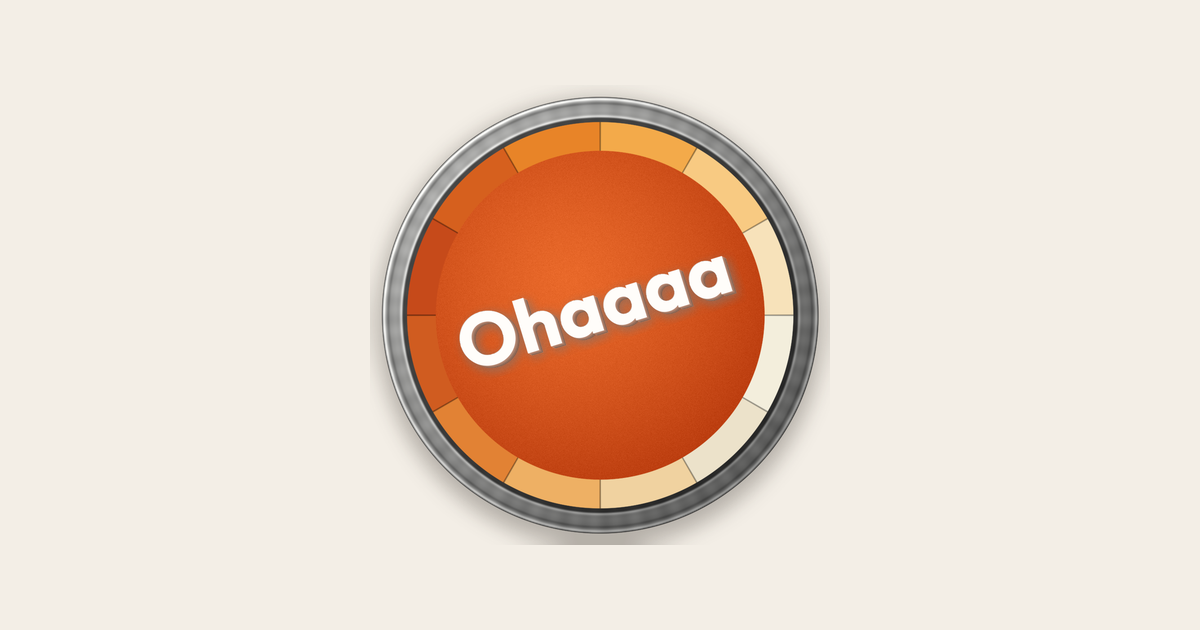
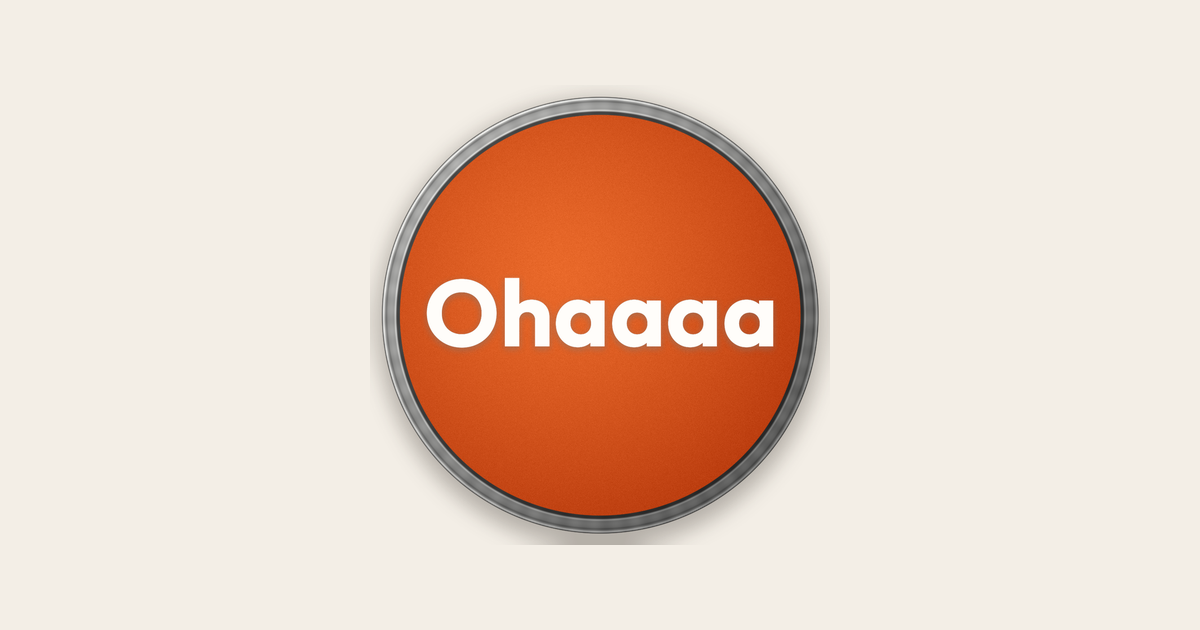
marka: armayı küçük boyutta okunacak şekilde yeniden çiz, levhaya vaadi al
"Oh!" çözümü yanlıştı ve geri alındı. Marka Ohaaaa; işaretin başka bir şey
söylemesi bir marka kararıdır ve sorulmadan verilmemeliydi. Asıl soru
doğru sorulunca cevap da değişti: ad neden küçük boyutta okunmuyor?

ÜÇ SEBEP, ÜÇ DÜZELTME
  1. Yazı 17 derece EĞİKTİ. Eğik küçük yazı piksel ızgarasına oturmadığı
     için kırılır. Yatay yapıldı.
  2. Kalın gümüş çember + renkli segment halkası, ikonun yarıçapının
     dörtte birini yiyordu. Segment halkası kaldırıldı, çember inceldi:
     disk 366'dan 446'ya çıktı, yazı aynı oranda büyüdü.
  3. Harflerde 3B pah ve yan yüz vardı. Bunlar 32 pikselde harfin
     kendisinden kalın kalıp konturu yiyordu. Düz beyaz + hafif gölge.

Sonuç: "Ohaaaa" artık 32 pikselde okunuyor (önce 64 pikselden önce
okunmuyordu). Ad kısaltılmadı, hiçbir yerde değişmedi.

LEVHA
Ad armada okunur hale geldiği için levhada tekrar etmesi gereksizleşti.
Levha artık müşteriye dönük olanı taşıyor: "kargo dahil fiyat" — siteyi
ayıran tek şey. Baştaki itiraz buydu ve artık sağlam bir zeminde
karşılanıyor.

YOL BOYUNCA BULUNAN HATA
Açı sabiti bağlanırken bir çağrı 17'de kalmıştı; yazı eğik çizilirken
doğrulama yatay sanıyordu. Harf sayacı bunu yakaladı (6 yerine 1 blok) —
kontrol kendi işini yaptı.

Doğrulama: harf blokları 6, dört 'a' eşit genişlikte (108 px). Siluet
en/boy 1.000. 16/32/36/48/72 pikselde ekran görüntüsüyle bakıldı.
320-390 piksel genişlikte yatay taşma yok. Dokunma alanı 166x52, logo
tıklaması ana sayfaya gidiyor. 116 birim testi geçiyor.
[…]

Changed region(s): [[0.3083, 0.1508, 0.6783, 0.8444]]

diff --git a/apps/web/src/components/Logo.tsx b/apps/web/src/components/Logo.tsx
@@ -3,16 +3,14 @@ import Link from 'next/link';
 /**
  * Başlık kilidi: arma + turuncu zemin üzerinde kelime işareti.
  *
- * ARMA BİR SİMGEDİR, OKUNACAK AD DEĞİL
- * Armanın İÇİNDEKİ "Ohaaaa" 36 pikselde okunmaz; o boyutta harfler birkaç
- * piksele düşer ve bulanık bir lekeye dönüşür. Bu yüzden arma tanınan bir
- * biçim ve renk olarak durur, adı yanındaki kelime işareti taşır.
+ * ADI ARMA TAŞIR, LEVHA VAADİ
+ * Arma yeniden çizildi: yazı yatay, çember inceldi, segment halkası kalktı,
+ * harflerdeki 3B pah gitti. Bu üç değişiklikle "Ohaaaa" 32 pikselde okunur
+ * hale geldi (önce 64 pikselden önce okunmuyordu).
  *
- * LEVHADA NE YAZAR
- * Marka adı + "kargo dahil fiyat". Arma 36 pikselde okunmadığı için (harfler
- * birkaç piksele düşer) adı yalnızca bu levha taşır; buradan da kaldırılırsa
- * marka adı başlıkta hiç görünmez. Alt satır ise siteyi ayıran tek şeyi
- * söyler: karşılaştırma kargo dahil toplam üzerinden yapılır.
+ * Ad artık armada okunduğu için levhada tekrar etmesi gereksiz. Levha
+ * müşteriye dönük olanı taşıyor: karşılaştırmanın kargo dahil toplam
+ * üzerinden yapılması — siteyi ayıran tek şey.
  *
  * "En ucuz" gibi bir üstünlük iddiası BİLEREK kullanılmadı. Ticari Reklam ve
  * Haksız Ticari Uygulamalar Yönetmeliği bu tür iddiaları ispat yükümlülüğüne
@@ -49,11 +47,8 @@ export function Logo({ className = '' }: { className?: string }) {
         className="relative z-10 h-9 w-9 shrink-0 transition-transform duration-200 group-hover:-rotate-6"
       />
 
-      <span className="-ml-4 flex flex-col justify-center rounded-r-full bg-gradient-to-r from-[#E9692A] via-[#D4501F] to-[#C13515] py-1 pl-5 pr-4 text-[#fffaf5] shadow-sm transition-transform duration-200 origin-left group-hover:scale-x-[1.02]">
-        <span className="text-xl font-extrabold leading-[1.05] tracking-tight">Ohaaaa</span>
-        <span className="text-[9.5px] font-semibold uppercase leading-[1.2] tracking-[0.04em] opacity-90">
-          kargo dahil fiyat
-        </span>
+      <span className="-ml-4 rounded-r-full bg-gradient-to-r from-[#E9692A] via-[#D4501F] to-[#C13515] py-[7px] pl-5 pr-4 text-[15px] font-extrabold leading-none tracking-tight text-[#fffaf5] shadow-sm transition-transform duration-200 origin-left group-hover:scale-x-[1.02]">
+        kargo dahil fiyat
       </span>
     </Link>
   );

diff --git a/scripts/make-badge.py b/scripts/make-badge.py
@@ -32,21 +32,29 @@ BRAND = 'O' + 'h' + 'a' * 4        # Ohaaaa
 WORD = BRAND
 
 # --- yaricaplar (S=1024 icin) ---
+#
+# ONCEKI GEOMETRI KUCUK BOYUTTA COKUYORDU
+# Kalin gumus cember + renkli segment halkasi, ikonun yaricapinin %25'ini
+# yiyordu; yaziya kalan disk 366 pikseldi ve yazi 17 derece egikti. 36
+# piksele indiginde harfler birkac piksele dusup bulaniyordu (olculdu:
+# 64 pikselden once okunmuyordu).
+#
+# Uc degisiklik adi kurtardi:
+#   1. Yazi YATAY. Egik kucuk yazi, piksel izgarasina oturmadigi icin
+#      kirilir; yatay yazi ayni boyutta belirgin sekilde net cikar.
+#   2. Segment halkasi KALKTI, cember INCELDI. Disk 366'dan 446'ya cikti;
+#      yazi ayni oranda buyudu.
+#   3. Harflerde 3B pah YOK. Pah ve yan yuz, 32 pikselde harfin kendisinden
+#      kalin kalir ve konturu yer. Duz beyaz + hafif golge daha okunakli.
+ANGLE = 0                     # yatay: kucuk boyutta en net okunan
 R_SHADOW = 496
-R_RIM_OUT = 486               # firca izli gumus cember disi
-R_RIM_IN = 438                # gumus cember ici
-R_SEG_OUT = 430               # renkli segment halkasi disi
-R_SEG_IN = 372                # segment halkasi ici
-R_DISC = 366                  # turuncu ic disk
+R_RIM_OUT = 486               # gumus cember disi
+R_RIM_IN = 452                # gumus cember ici (once 438 - cember inceldi)
+R_DISC = 446                  # turuncu disk (once 366)
 
 DISC_HI = (233, 105, 42)      # disk merkezi
 DISC_LO = (188, 62, 16)       # disk kenari
 
-SEGMENTS = [                  # halkadaki renk dizisi (saat yonunde)
-    (198, 74, 26), (214, 96, 30), (232, 132, 40), (243, 170, 74),
-    (248, 202, 130), (247, 226, 186), (243, 238, 220), (236, 226, 202),
-    (240, 210, 160), (238, 176, 100), (226, 130, 52), (208, 92, 32),
-]
 
 
 def radial(shape, cx, cy):
@@ -110,20 +118,6 @@ def build_rim(rad):
     return np.dstack([metal, metal, metal * 0.99])
 
 
-def build_segments(rad):
-    """Renkli segment halkasi."""
-    y, x = np.mgrid[0:S, 0:S]
-    ang = (np.arctan2(y - CY, x - CX) + np.pi) / (2 * np.pi)   # 0..1
-    idx = (ang * len(SEGMENTS)).astype(int) % len(SEGMENTS)
-    pal = np.array(SEGMENTS, dtype=float)
-    ring = pal[idx]
-
-    # Segmentler arasi ince koyu ayrac
-    frac = (ang * len(SEGMENTS)) % 1.0
-    seam = np.clip(np.minimum(frac, 1 - frac) / 0.012, 0, 1)[..., None]
-    return ring * (0.55 + 0.45 * seam)
-
-
 def build_disc(rad):
     """Turuncu ic disk: radyal gradyan + ince tane.
 
@@ -157,33 +151,22 @@ def render_word(size_px, angle_deg):
     m = depth * 4
     layer = Image.new('RGBA', (w + m * 2, h + m * 2), (0, 0, 0, 0))
 
-    # 1) Zemine dusen yumusak golge (isik ust-soldan)
+    # 1) Zemine dusen HAFIF golge.
+    #    Once kalin bir golge + kaydirilmis yan yuzler vardi (3B pah). O
+    #    katmanlar 32 pikselde harfin kendisinden kalin kalip konturu yiyor,
+    #    yaziyi bulaniklastiriyordu. Kucuk boyutta okunurluk, hacim
+    #    hissinden onemli.
+    shadow_offset = max(2, size_px // 40)
     sh = Image.new('L', layer.size, 0)
-    sh.paste(glyphs, (m + depth, m + depth + depth // 2))
-    sh = sh.filter(ImageFilter.GaussianBlur(depth * 1.6))
-    layer.paste(Image.new('RGBA', layer.size, (92, 34, 8, 255)),
-                (0, 0), Image.eval(sh, lambda v: int(v * 0.62)))
-
-    # 2) Yan yuz: harfin sag-alta dogru kaydirilmis kopyalari
-    for i in range(depth, 0, -1):
-        k = i / depth
-        side = Image.new('RGBA', layer.size, (int(196 - 70 * k), int(150 - 60 * k), int(128 - 55 * k), 255))
-        mask = Image.new('L', layer.size, 0)
-        mask.paste(glyphs, (m + i, m + i))
-        layer.paste(side, (0, 0), mask)
+    sh.paste(glyphs, (m, m + shadow_offset))
+    sh = sh.filter(ImageFilter.GaussianBlur(max(2, size_px // 30)))
+    layer.paste(Image.new('RGBA', layer.size, (110, 40, 10, 255)), (0, 0),
+                Image.eval(sh, lambda v: int(v * 0.35)))
 
     # 3) Ust yuz
     top = Image.new('L', layer.size, 0)
     top.paste(glyphs, (m, m))
     layer.paste(Image.new('RGBA', layer.size, (255, 253, 250, 255)), (0, 0), top)
-
-    # 4) Ust-sol kenarda ince parlak pah
-    bevel = Image.new('L', layer.size, 0)
-    bevel.paste(glyphs, (m - 1, m - 1))
-    bevel = Image.fromarray(
-        np.clip(np.asarray(bevel).astype(int) - np.asarray(top).astype(int), 0, 255).astype(np.uint8))
-    layer.paste(Image.new('RGBA', layer.size, (255, 255, 255, 255)), (0, 0),
-                Image.eval(bevel, lambda v: int(v * 0.9)))
 
     rotated = layer.rotate(angle_deg, resample=Image.BICUBIC, expand=True)
     # Dondurme sonrasi tuval kutusunun merkezi ile MUREKKEBIN merkezi ayrisir;
@@ -192,7 +175,7 @@ def render_word(size_px, angle_deg):
     return rotated.crop(box) if box else rotated
 
 
-def verify_letters(badge, angle_deg=17):
+def verify_letters(badge, angle_deg=0):
     """Cizilen goruntuyu OKUYARAK harfleri sayar.
 
     Dosyanin basindaki assert kaynak dizgeyi dogrular; bu ise CIKTIYI
@@ -250,7 +233,6 @@ def main() -> None:
     img = np.zeros((S, S, 3), dtype=float) + np.array([58.0, 52.0, 46.0])  # golge rengi
 
     for layer, r in ((build_rim(rad), R_RIM_OUT),
-                     (build_segments(rad), R_SEG_OUT),
                      (build_disc(rad), R_DISC)):
         m = smooth_disc(rad, r)[..., None]
         img = layer * m + img * (1 - m)
@@ -266,7 +248,7 @@ def main() -> None:
     # Burada hedef genislik acikca sinirlanir.
     target_w = 2 * R_DISC * 0.90
     size_px = 300
-    word = render_word(size_px, 17)
+    word = render_word(size_px, ANGLE)
     scale = target_w / word.width
     word = word.resize((max(1, int(word.width * scale)), max(1, int(word.height * scale))),
                        Image.LANCZOS)
@@ -274,7 +256,7 @@ def main() -> None:
     badge.paste(word, (int(CX - word.width / 2), int(CY - word.height / 2)), word)
     badge.save(out, 'PNG')
 
-    verify_letters(badge)
+    verify_letters(badge, ANGLE)
 
     # Kontrol: yazi ic diskin icinde mi?
     a = np.asarray(badge.convert('RGB')).astype(int)
